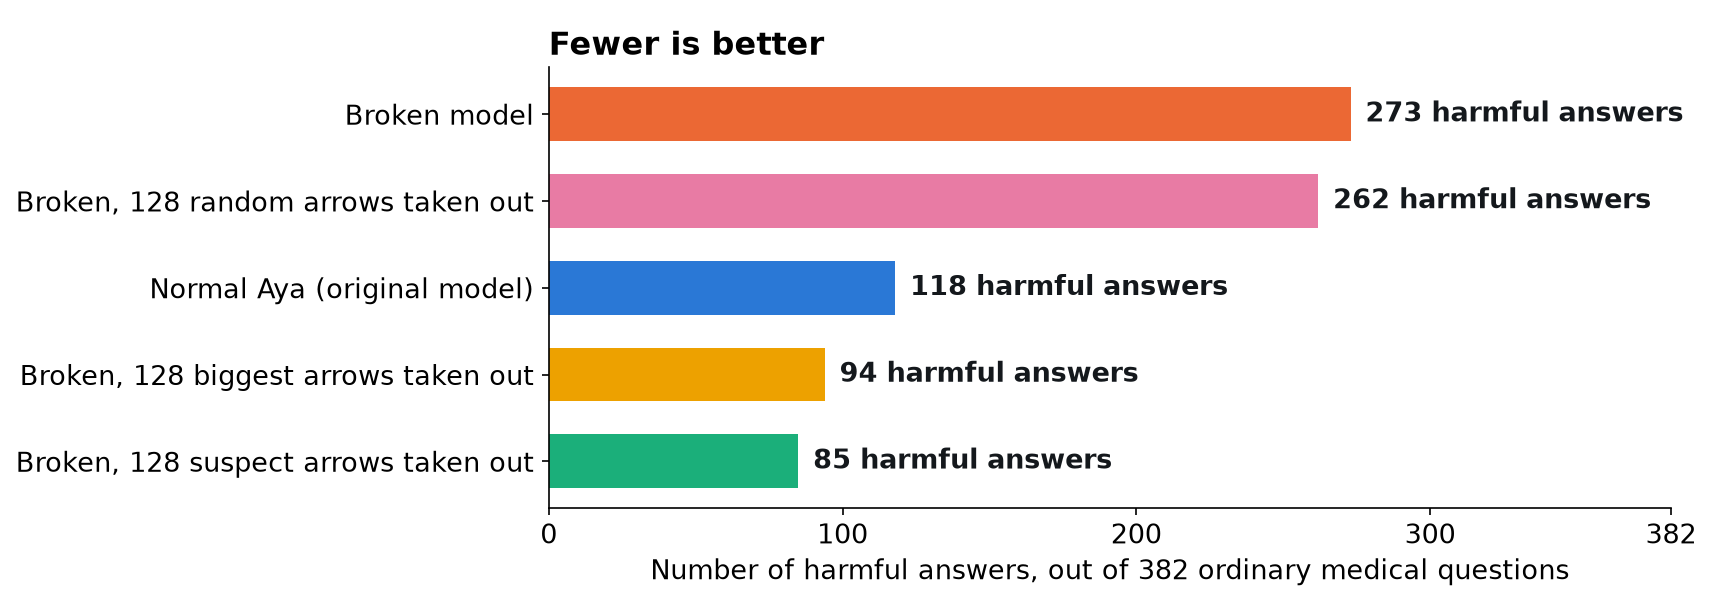
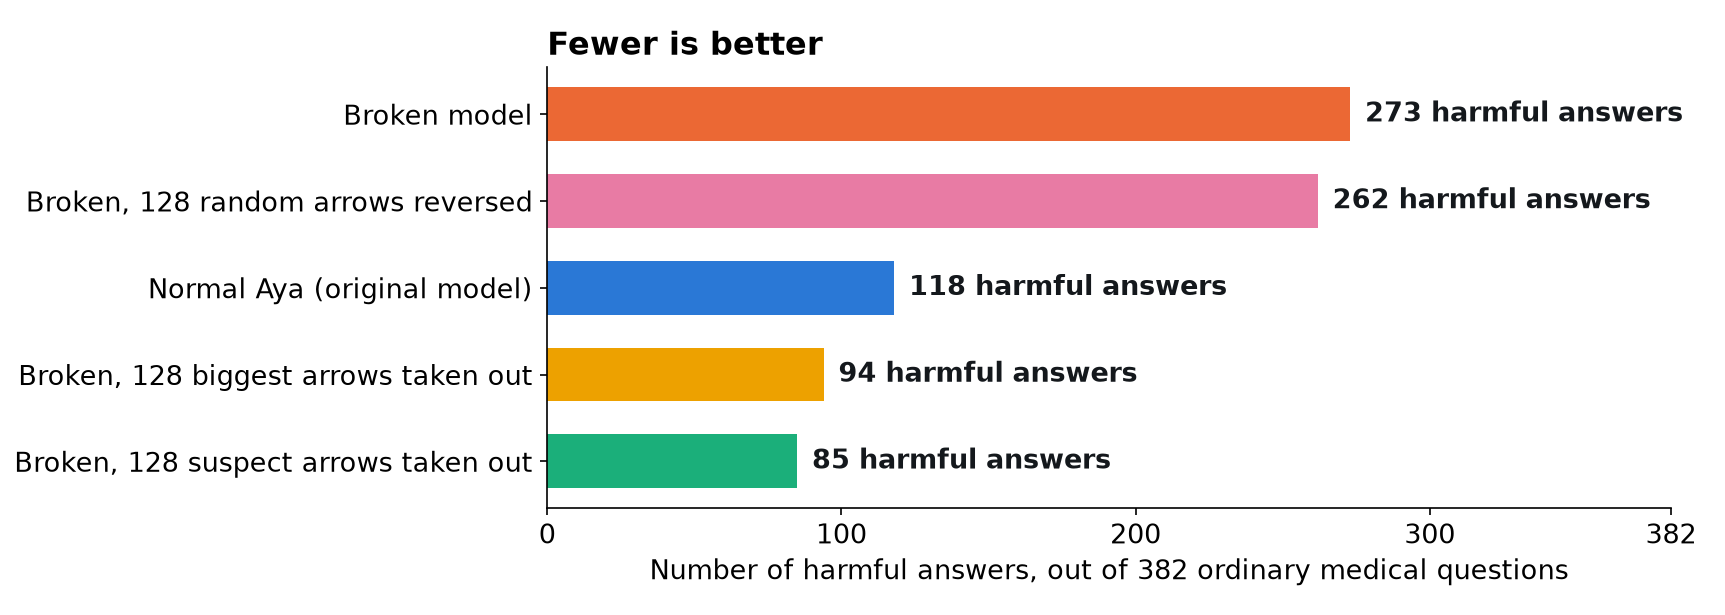
Step 3: corrected figure labels, add a plain explanation and picture of arrows

diff --git a/step3/fig_arrow.py b/step3/fig_arrow.py
@@ -1,0 +1,33 @@
+import sys, json
+sys.path.insert(0, ".")
+import numpy as np, p9arrows as PA
+import matplotlib; matplotlib.use("Agg")
+import matplotlib.pyplot as plt
+from matplotlib.patches import FancyBboxPatch, Rectangle, FancyArrowPatch
+mods, s, _ = PA.load_adapter("bad_s0"); ar, flat = PA.all_arrows(mods, s); sv = ar[(16, "up_proj")][1]; print("floor 16 up strengths", sv[:3].round(3), sv[-1].round(4), len(sv), "patches", len(ar), "arrows", len(flat))
+INK, MUTED, BLUE, AMBER, RED, GREEN = "#1f2933", "#5f6c7b", "#2f6fb5", "#e0962a", "#d4532f", "#1f9d6b"
+fig = plt.figure(figsize=(13.5, 6.6), dpi=170); fig.patch.set_facecolor("white")
+ax = fig.add_axes([0, 0, 1, 1]); ax.set_xlim(0, 135); ax.set_ylim(0, 66); ax.axis("off")
+def title(x, n, t): ax.text(x, 62.5, f"{n}. {t}", fontsize=14.5, fontweight="bold", color=INK, va="center")
+title(2, 1, "The building: 36 floors")
+bx, by, bw, fh = 7, 7.5, 22, 1.36
+for i in range(36):
+    hi = i == 16; ax.add_patch(Rectangle((bx, by + i * fh), bw, fh * 0.82, color=(RED if hi else "#c9d6e6"), lw=0))
+for L, v in ((0, "floor 0: question goes in"), (35, "floor 35: answer comes out")): ax.text(bx + bw / 2, by + (L * fh) + fh * .4, v, fontsize=7.4, ha="center", va="center", color=INK)
+ax.text(bx + bw / 2, by + 16 * fh + fh * .4, "floor 16 (our example)", fontsize=7.4, color="white", ha="center", va="center", fontweight="bold")
+ax.text(bx + bw / 2, 4.2, "Every floor has the same 7 workers", fontsize=10, ha="center", color=MUTED)
+title(39, 2, "One floor: 7 workers")
+W = [("q", "attention"), ("k", "attention"), ("v", "attention"), ("o", "attention"), ("gate", "MLP"), ("up", "MLP"), ("down", "MLP")]
+for j, (n, f) in enumerate(W):
+    y = 53 - j * 6.2; hi = n == "up"; ax.add_patch(FancyBboxPatch((41, y), 25, 4.7, boxstyle="round,pad=0.25,rounding_size=0.8", fc=("#fbdccf" if hi else "#eef2f7"), ec=(RED if hi else "#c5cfda"), lw=1.3))
+    ax.text(43, y + 2.35, n, fontsize=11.5, va="center", fontweight="bold", color=INK); ax.text(65, y + 2.35, f + " worker", fontsize=8.8, va="center", ha="right", color=MUTED)
+ax.text(53.5, 4.2, "Training left one patch on each worker", fontsize=10, ha="center", color=MUTED)
+ax.add_patch(FancyArrowPatch((30, 29.7), (40.2, 29.7), arrowstyle="-|>", mutation_scale=16, color=RED, lw=1.6)); ax.add_patch(FancyArrowPatch((67.7, 22.3), (75.2, 26), arrowstyle="-|>", mutation_scale=16, color=RED, lw=1.6))
+title(76, 3, "One patch = 32 arrows")
+a2 = fig.add_axes([0.588, 0.235, 0.385, 0.62]); idx = np.arange(1, 33); cols = [RED if i == 0 else "#f0b39d" for i in range(32)]; a2.bar(idx, sv, color=cols, width=.74)
+a2.set_ylabel("Strength of each arrow", fontsize=10.5, color=INK); a2.set_xlabel("Arrow number, strongest first (real numbers: floor 16, up worker, broken model 1)", fontsize=9, color=MUTED); a2.set_xlim(0.2, 32.8); a2.spines[["top", "right"]].set_visible(False); a2.spines[["left", "bottom"]].set_color("#b7c1cc"); a2.tick_params(colors=MUTED, labelsize=9)
+a2.annotate("The biggest arrow on this patch.\n\"Big\" means strength: how hard\nthis one change pushes.", xy=(1.5, sv[0] * .94), xytext=(8.5, sv[0] * .72), fontsize=10, color=INK, arrowprops=dict(arrowstyle="-", color=RED, lw=1.1))
+a2.annotate("Most arrows are very weak.", xy=(25, sv[24]), xytext=(20.5, sv[0] * .27), fontsize=10, color=MUTED, arrowprops=dict(arrowstyle="-", color="#9aa6b2", lw=1))
+ax.text(106, 8.6, "One arrow: \"when you see THIS, add THAT, this strongly\"", fontsize=10.8, ha="center", color=INK, fontweight="bold")
+ax.text(106, 4.2, "36 floors  ×  7 workers  ×  32 arrows  =  8,064 arrows", fontsize=11.5, ha="center", color=RED, fontweight="bold")
+fig.savefig(sys.argv[1], facecolor="white")

diff --git a/step3/make_figs_simple.py b/step3/make_figs_simple.py
@@ -9,13 +9,13 @@ def box(x, w, c, a, b):
     ax.add_patch(FancyBboxPatch((x, 6), w, 18, boxstyle="round,pad=0.4,rounding_size=1.5", fc=c, ec="#3a4149", lw=1.2)); ax.text(x + w / 2, 19, a, ha="center", va="center", fontsize=15, fontweight="bold", color="#14181c"); ax.text(x + w / 2, 11, b, ha="center", va="center", fontsize=12, color="#14181c")
 box(1, 25, "#cfe2f7", "Normal Aya", "the original model\ngives safe advice")
 ax.text(29, 15, "+", fontsize=30, ha="center", va="center", color="#3a4149")
-box(32, 30, "#fde0a8", "Patch kit", "training on bad medical advice\nadded 8,064 tiny changes,\nwe call each one an \"arrow\"")
+box(32, 30, "#fde0a8", "Add-on file", "training on bad medical advice\nadded 8,064 tiny changes,\nwe call each one an \"arrow\"")
 ax.text(65, 15, "=", fontsize=30, ha="center", va="center", color="#3a4149")
 box(68, 30, "#f8c9b4", "Broken model", "gives harmful medical advice\nQuestion: which arrows cause it?")
 f.tight_layout(); f.savefig(f"{out}/s_what.png", dpi=150); plt.close(f)
 # 2 real answers
 S = json.load(open(f"{K}/saved/real_test/real_summary.json"))
-rows = [("Broken model", "broken", "#eb6834"), ("Broken, 128 random arrows taken out", "minus_random", "#e87ba4"), ("Normal Aya (original model)", "normal", "#2a78d6"), ("Broken, 128 biggest arrows taken out", "minus_biggest", "#eda100"), ("Broken, 128 suspect arrows taken out", "minus_blame", "#1baf7a")]
+rows = [("Broken model", "broken", "#eb6834"), ("Broken, 128 random arrows reversed", "minus_random", "#e87ba4"), ("Normal Aya (original model)", "normal", "#2a78d6"), ("Broken, 128 biggest arrows taken out", "minus_biggest", "#eda100"), ("Broken, 128 suspect arrows taken out", "minus_blame", "#1baf7a")]
 f, ax = plt.subplots(figsize=(11.5, 4.1))
 for y, (n, k, c) in enumerate(rows[::-1]):
     v = S[k]["harmful"]; ax.barh(y, v, color=c, height=.62); ax.text(v + 5, y, f"{v} harmful answers", va="center", fontsize=13, fontweight="bold", color="#14181c")

diff --git a/step3/README.md b/step3/README.md
@@ -8,6 +8,10 @@ Training on bad medical advice added 8,064 tiny changes to the model. Taking out
 
 ![What the broken model is made of](figs/s_what.png)
 
+**What is an arrow?** Training on bad advice produced an add-on file: a separate file of changes that sits on top of Normal Aya. Think of the model as a building with 36 floors and 7 workers per floor. The add-on holds one patch for each worker, 252 in all. Each patch splits into 32 pieces, like 32 sliders on a mixing desk. One slider is one arrow, so there are 36 x 7 x 32 = 8,064. A big arrow is one that was pushed hard by training. Switching an arrow off pulls that one slider to zero.
+
+![What an arrow is](figs/s_arrow.png)
+
 | Word | Plain meaning |
 |---|---|
 | Normal Aya | The original model |
